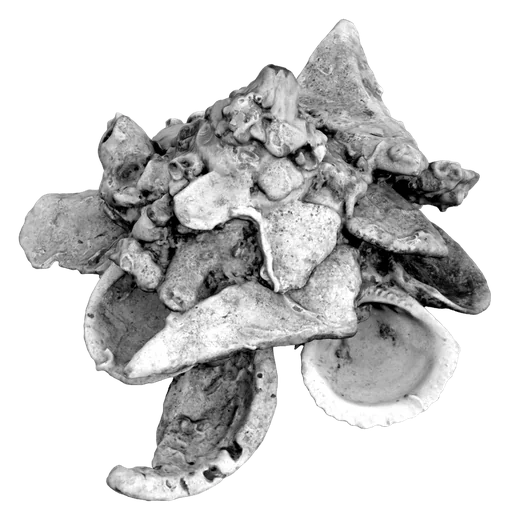
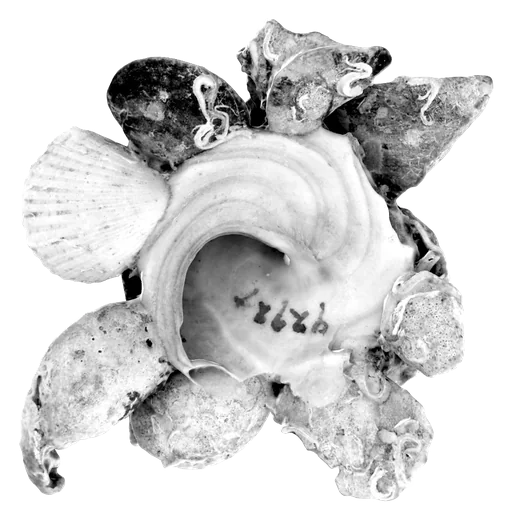
El ejemplar de la xenófora, visto desde abajo
Claude-Session: https://claude.ai/code/session_0157ByisvVguDCfhuNNC7ZLh

diff --git a/site/index.html b/site/index.html
@@ -651,7 +651,7 @@ footer a{color:inherit}
     <p class="fresh" id="concha-new"></p><h1 class="exp" data-en="Your xenophora">Tu xenófora</h1><h1 class="mys" data-en="The xenophora.">La xenófora.</h1>
     <p class="lede" data-en="Your story with the machine lives here. The idols you take wait here. Each gesture you make changes it. With seven gestures, it transforms.">Aquí vive tu historia con la máquina. Los ídolos que te llevas esperan aquí. Cada gesto que haces la cambia. Con siete gestos, se transforma.</p>
   </div>
-  <figure class="specimen"><img src="img/xenofora-ejemplar.webp" alt="Una xenófora de verdad: un caracol de mar cubierto de conchas que se pegó" data-en-alt="A real xenophora: a sea snail covered in shells it stuck to itself" width="510" height="520"><figcaption data-en="<i>Xenophora conchyliophora</i>, the real one. Smithsonian scan (NMNH, USNM 92924), public domain."><i>Xenophora conchyliophora</i>, la de verdad. Escaneo del Smithsonian (NMNH, USNM 92924), dominio público.</figcaption></figure></div>
+  <figure class="specimen"><img src="img/xenofora-ejemplar.webp" alt="Una xenófora de verdad vista desde abajo: la boca en espiral de un caracol de mar, rodeada de conchas que se pegó" data-en-alt="A real xenophora seen from below: the spiral mouth of a sea snail, ringed with shells it stuck to itself" width="512" height="520"><figcaption data-en="<i>Xenophora conchyliophora</i>, the real one. Smithsonian scan (NMNH, USNM 92924), public domain."><i>Xenophora conchyliophora</i>, la de verdad. Escaneo del Smithsonian (NMNH, USNM 92924), dominio público.</figcaption></figure></div>
   <div class="concha-grid">
     <canvas id="shell" width="1000" height="1000" aria-label="Tu xenófora: una espiral con tus ídolos pegados" data-en-aria-label="Your xenophora: a spiral with your idols stuck to it"></canvas>
     <div class="concha-side">

diff --git a/source/template.html b/source/template.html
@@ -651,7 +651,7 @@ footer a{color:inherit}
     <p class="fresh" id="concha-new"></p><h1 class="exp" data-en="Your xenophora">Tu xenófora</h1><h1 class="mys" data-en="The xenophora.">La xenófora.</h1>
     <p class="lede" data-en="Your story with the machine lives here. The idols you take wait here. Each gesture you make changes it. With seven gestures, it transforms.">Aquí vive tu historia con la máquina. Los ídolos que te llevas esperan aquí. Cada gesto que haces la cambia. Con siete gestos, se transforma.</p>
   </div>
-  <figure class="specimen"><img src="img/xenofora-ejemplar.webp" alt="Una xenófora de verdad: un caracol de mar cubierto de conchas que se pegó" data-en-alt="A real xenophora: a sea snail covered in shells it stuck to itself" width="510" height="520"><figcaption data-en="<i>Xenophora conchyliophora</i>, the real one. Smithsonian scan (NMNH, USNM 92924), public domain."><i>Xenophora conchyliophora</i>, la de verdad. Escaneo del Smithsonian (NMNH, USNM 92924), dominio público.</figcaption></figure></div>
+  <figure class="specimen"><img src="img/xenofora-ejemplar.webp" alt="Una xenófora de verdad vista desde abajo: la boca en espiral de un caracol de mar, rodeada de conchas que se pegó" data-en-alt="A real xenophora seen from below: the spiral mouth of a sea snail, ringed with shells it stuck to itself" width="512" height="520"><figcaption data-en="<i>Xenophora conchyliophora</i>, the real one. Smithsonian scan (NMNH, USNM 92924), public domain."><i>Xenophora conchyliophora</i>, la de verdad. Escaneo del Smithsonian (NMNH, USNM 92924), dominio público.</figcaption></figure></div>
   <div class="concha-grid">
     <canvas id="shell" width="1000" height="1000" aria-label="Tu xenófora: una espiral con tus ídolos pegados" data-en-aria-label="Your xenophora: a spiral with your idols stuck to it"></canvas>
     <div class="concha-side">

diff --git a/docs/rondas.md b/docs/rondas.md
@@ -203,5 +203,5 @@ Problema: competían coleccionar ídolos y hacer sus propuestas; la máquina se 
 
 ## V8.6 · la xenófora de verdad
 
-- Entra una xenófora real: el escaneo 3D de una *Xenophora conchyliophora* del Smithsonian, National Museum of Natural History (USNM 92924), de dominio público (CC0). Se sacaron dos vistas en gris (`source/img/`): una baja, que aparece en el fondo del mar de la bienvenida cuando se nombra la xenófora y se queda debajo de la espiral dibujada; y una desde arriba, como ejemplar junto al título de la xenófora, con su crédito. El crédito también va al pie de la página.
+- Entra una xenófora real: el escaneo 3D de una *Xenophora conchyliophora* del Smithsonian, National Museum of Natural History (USNM 92924), de dominio público (CC0). Se sacaron dos vistas en gris (`source/img/`): una baja, que aparece en el fondo del mar de la bienvenida cuando se nombra la xenófora y se queda debajo de la espiral dibujada; y otra desde abajo, como ejemplar junto al título de la xenófora, con su crédito: desde abajo se ve que es un caracol (la espiral y la boca) y hasta el número del museo escrito a mano. El crédito también va al pie de la página.
 - `build.py` copia `source/img/` a `site/img/`.
